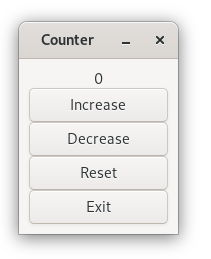
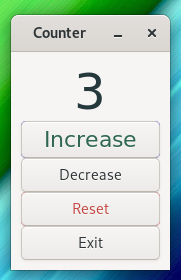
Styling added using CSS
Beta stage

diff --git a/gtkcounter.py b/gtkcounter.py
@@ -2,34 +2,48 @@ import sys
 import gi
 import pickledb
 
+
 gi.require_version('Gtk', '3.0')
 from gi.repository import Gio
-from gi.repository import Gtk
+from gi.repository import Gtk, Gdk
 
 
 
 class MainWindow(Gtk.ApplicationWindow):
 
     def __init__(self, App):
-        super(MainWindow, self).__init__(title="Counter", application=App)
+        super(MainWindow, self).__init__(title="Counter", application=App, decorated=True, name="csswindow")
         #self.set_default_size(280, 180)
         self.set_border_width(10)
+        
+        try:
+            self.set_icon_from_file("ortealicon512.png")
+            print("Icon loaded successfully")
+        except Exception as e:
+            print("Failed loading Icon")
+            print (e.message)
+            
+        
+              
+        
         
         self.db = pickledb.load('pycounter.db', False)
         savedprev=self.db.get('previous')
         self.count=int(savedprev)
         print("Database loaded successfully")
         
-        print("starting creating vbox")
+        #print("Starting creating vbox")
         vbox = Gtk.Box(orientation=Gtk.Orientation.VERTICAL)
         self.add(vbox)
         
         
         
-        self.countLabel = Gtk.Label(self.count)
+        self.countLabel = Gtk.Label(label=self.count)
+        self.countLabel.set_name('cntlab')
         vbox.pack_start(self.countLabel, True, True, 0)
 
         incbutton = Gtk.Button.new_with_label("Increase")
+        incbutton.set_name('incbut')
         incbutton.connect("clicked", self.increase)
         vbox.pack_start(incbutton, True, True, 0)
         
@@ -38,17 +52,52 @@ class MainWindow(Gtk.ApplicationWindow):
         vbox.pack_start(decbutton, True, True, 0)
         
         resetbutton = Gtk.Button.new_with_label("Reset")
+        resetbutton.set_name('resetbut')
         resetbutton.connect("clicked", self.resett)
         vbox.pack_start(resetbutton, True, True, 0)
         
         exitbutton = Gtk.Button.new_with_label("Exit")
+        exitbutton.set_name('exitbut')
         exitbutton.connect("clicked", self.exitt)
         vbox.pack_start(exitbutton, True, True, 0)
+        
+        
+        
+        
+        
+        style_provider = Gtk.CssProvider()
+        
+        css = """
+        
+
+        #incbut {
+            background-color: blue;
+            color: #306754;
+  	    font: 22px "Comic Sans";
+        }
+        
+        #resetbut {
+            background-color: red;
+            color: #C24641;
+  	    
+        }
+               
+	#cntlab {
+ 	    font: 50px Sans;
+ 	    color: #25383C;
+	}
+        """
+        style_provider.load_from_data(bytes(css.encode()))
+	
+        Gtk.StyleContext.add_provider_for_screen(
+            Gdk.Screen.get_default(), style_provider,
+            Gtk.STYLE_PROVIDER_PRIORITY_APPLICATION
+        )
         
         print("GUI creating done")
         
     def increase(self, incbutton):
-        print('"Increased pressed')
+        print('Increase button pressed')
         count=self.count
         count=count+1
         self.count=count
@@ -58,7 +107,7 @@ class MainWindow(Gtk.ApplicationWindow):
 
         
     def decrease(self, decbutton):
-        print('"decreased pressed')
+        print('Decrease button pressed')
         count=self.count
         count=count-1
         self.count=count
@@ -67,7 +116,7 @@ class MainWindow(Gtk.ApplicationWindow):
         self.db.dump()
         
     def resett(self, resetbutton):
-        print('"Reset pressed')
+        print('Reset button pressed')
         self.count=0
         self.countLabel.set_text ("0");
         self.db.set('previous', '0')
@@ -77,10 +126,13 @@ class MainWindow(Gtk.ApplicationWindow):
             
     def exitt(self, exbutton):
     	app.quit()
-    	print("Successfully shut down")
+    	print("Count saved to database, Successfully shut down")
     	
-
-
+    
+    
+    
+    
+    
 
 class App(Gtk.Application):
     def __init__(self):

diff --git a/README.md b/README.md
@@ -6,7 +6,7 @@ Created using python, GTK for GUI, PickleDB database
 
 Original author: BT40
 
-Project started on 14 June 2020
+Project started on 14 June 2020, completed on 21 June 2020
 
 Main target OS: Ubuntu/Debian
 
